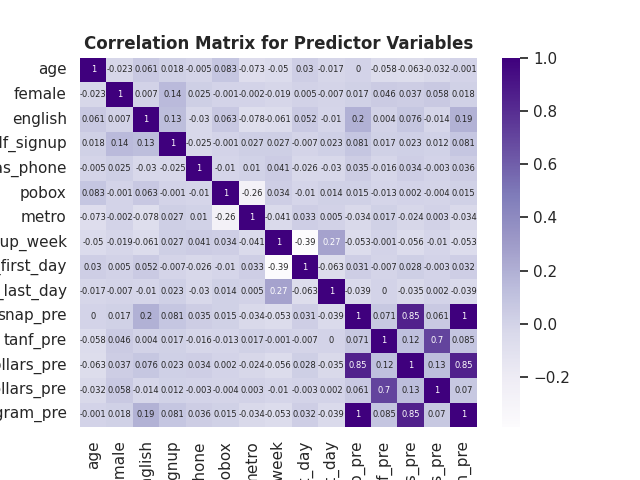
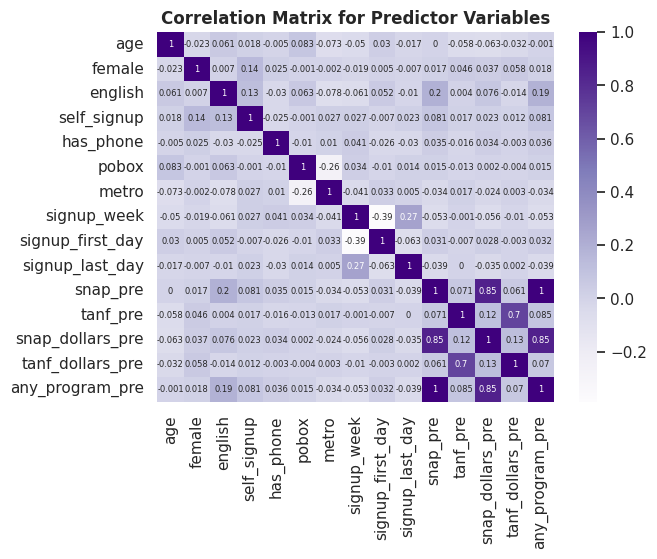
Week 3 - Data Selection and Final Project Planning Lab: Fixed README typos and correlation heatmap labels being cutoff

diff --git a/Week 3/Data Selection and Final Project Planning Lab/README.md b/Week 3/Data Selection and Final Project Planning Lab/README.md
@@ -1,12 +1,12 @@
-# Data Selection and Finaly Project Planning Lab
+# Data Selection and Final Project Planning Lab
 
 **Project Name:** Allocating Scarce Medicaid Coverage: A Counterfactual Comparison of Lottery, Need-Based, and Learned Targeting in the Oregon Health Insurance Experiment
+
+**Google Colab:** https://colab.research.google.com/drive/18PLz4JU1gqyI56n-lp3NdDap5LiDeD9s?usp=sharing
 
 **Author:** Chayce Reed
 
 **Date:** 10/03/26
-
-**Google Colab:** https://colab.research.google.com/drive/18PLz4JU1gqyI56n-lp3NdDap5LiDeD9s?usp=sharing
 
 ## Purpose
 
@@ -17,7 +17,7 @@ It loads the NBER public-use files and merges the lottery, enrollment, and 12-mo
 ## Repo Structure
 
 ```
-Data Selection and Finaly Project Planning Lab/
+Data Selection and Final Project Planning Lab/
 ├── README.md
 ├── data_selection_and_final_project_planning_lab.ipynb
 └── outputs/
